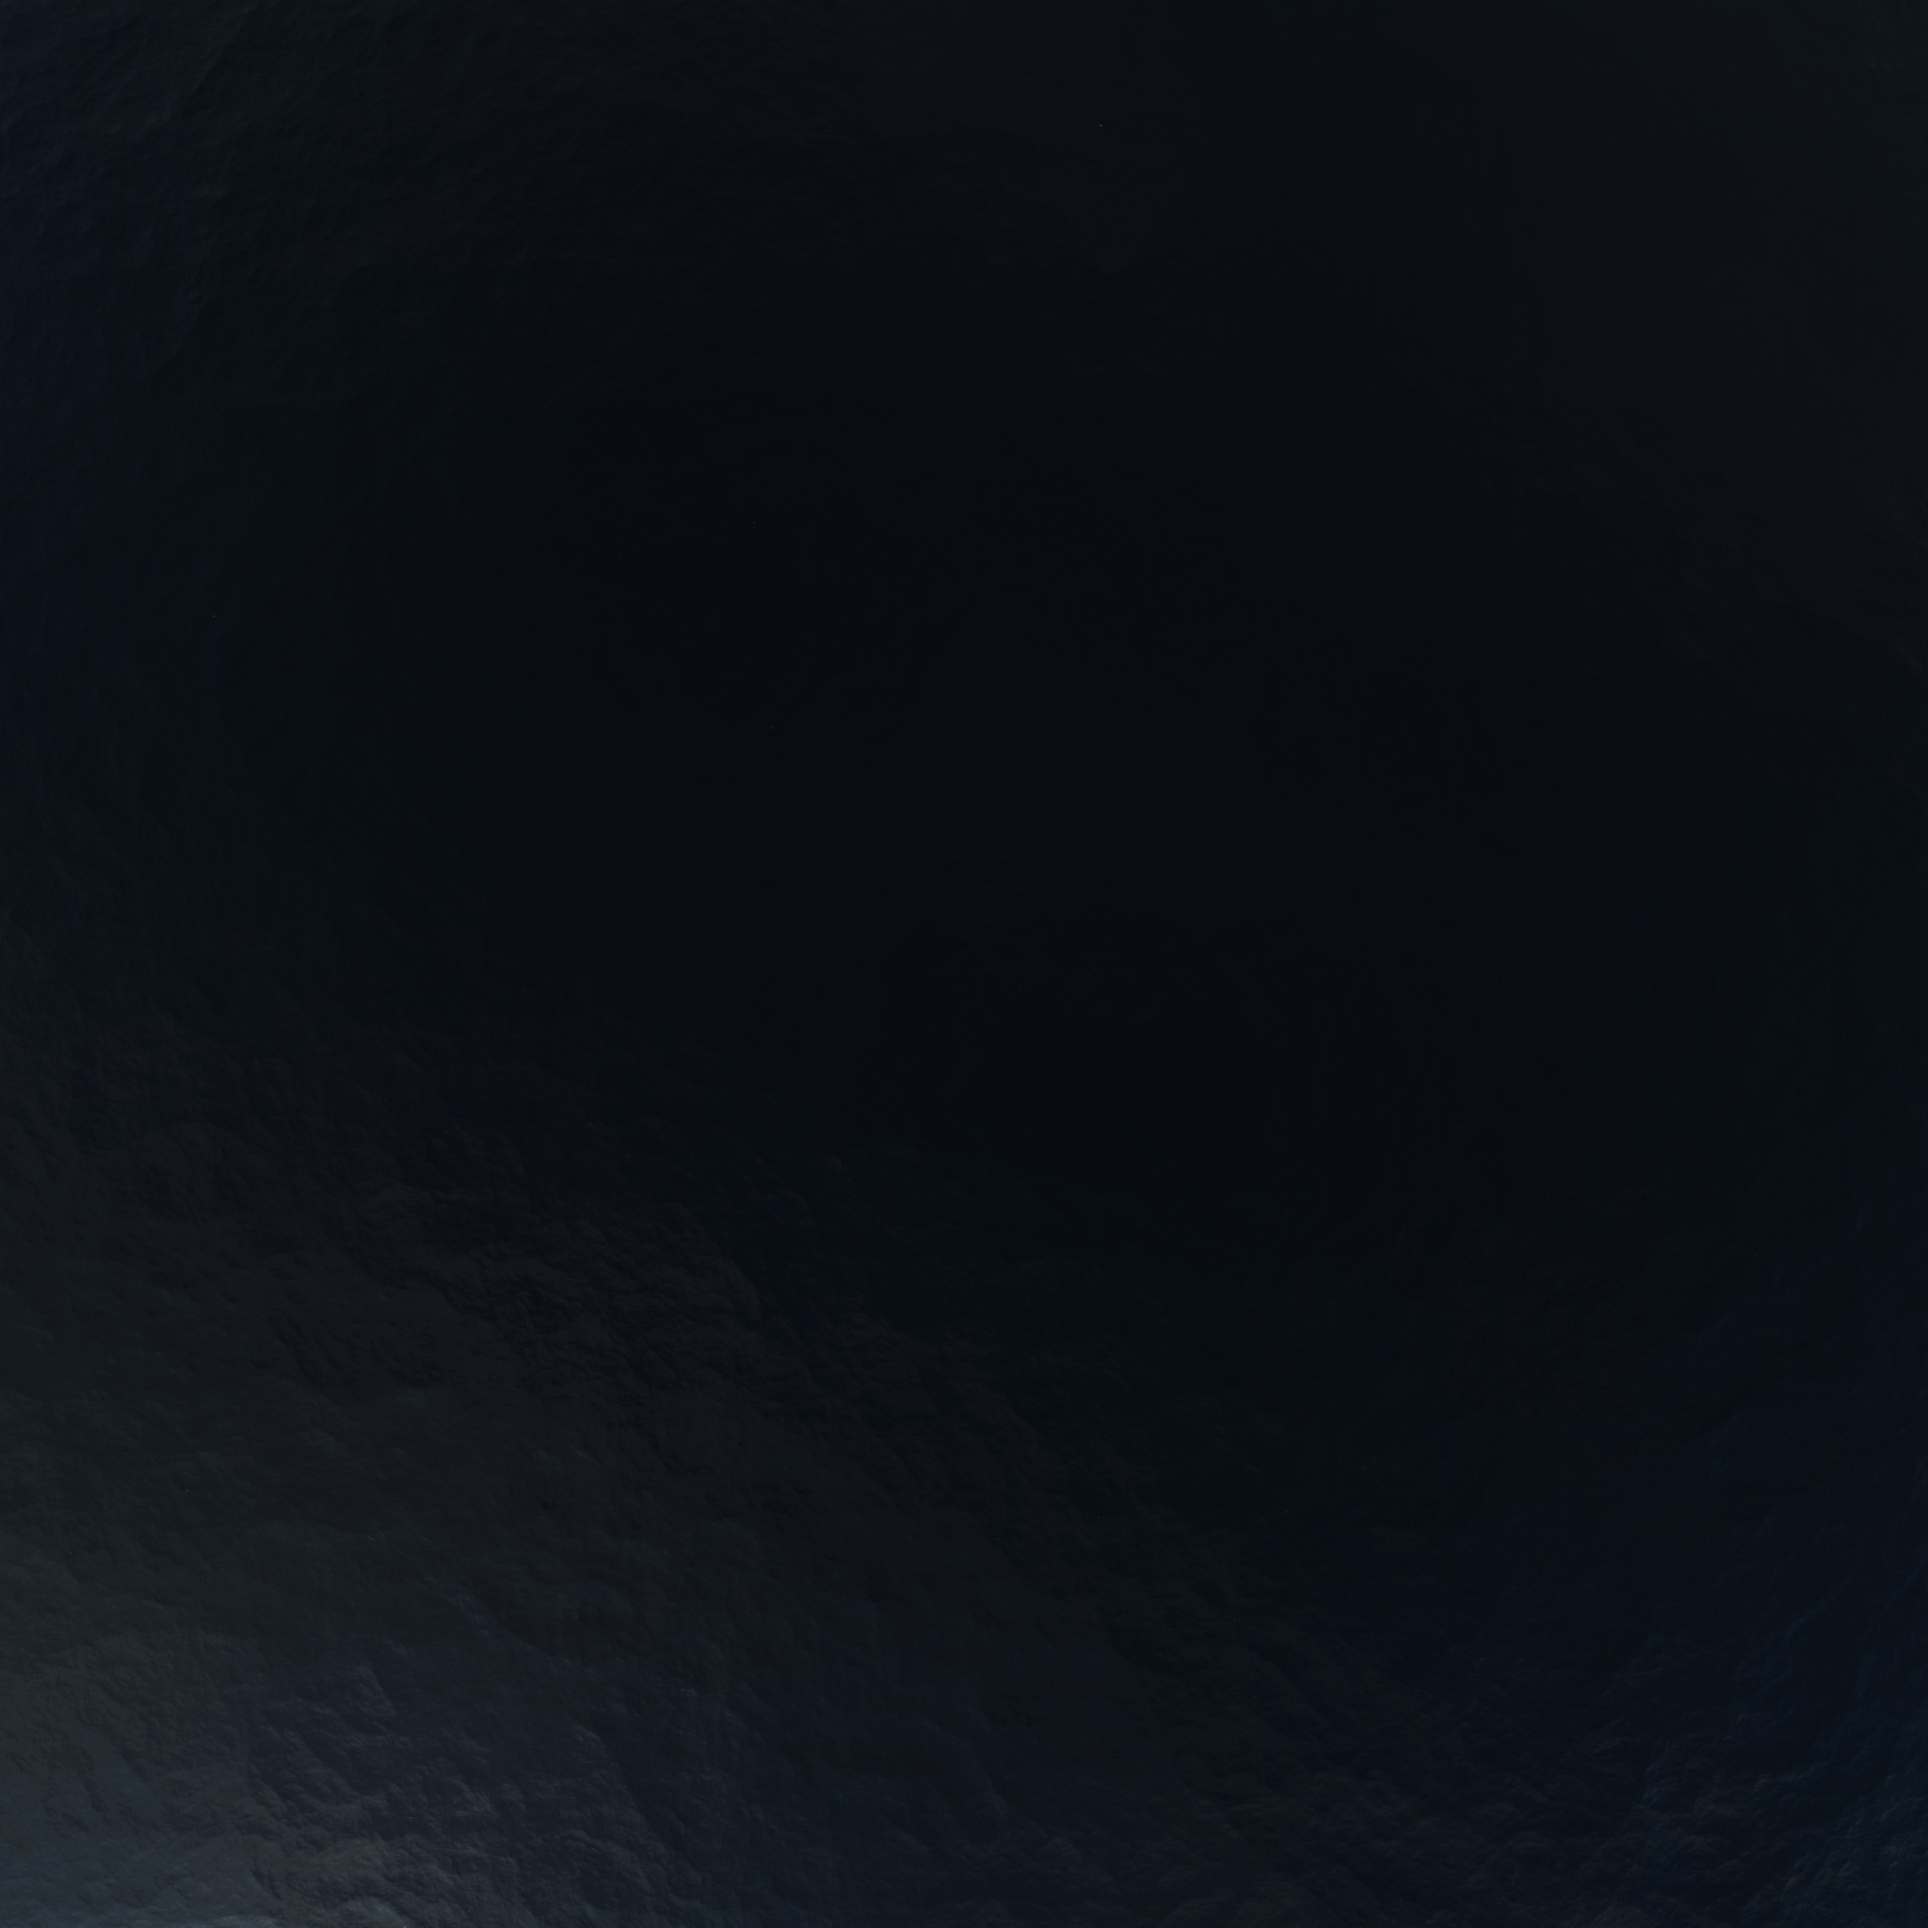
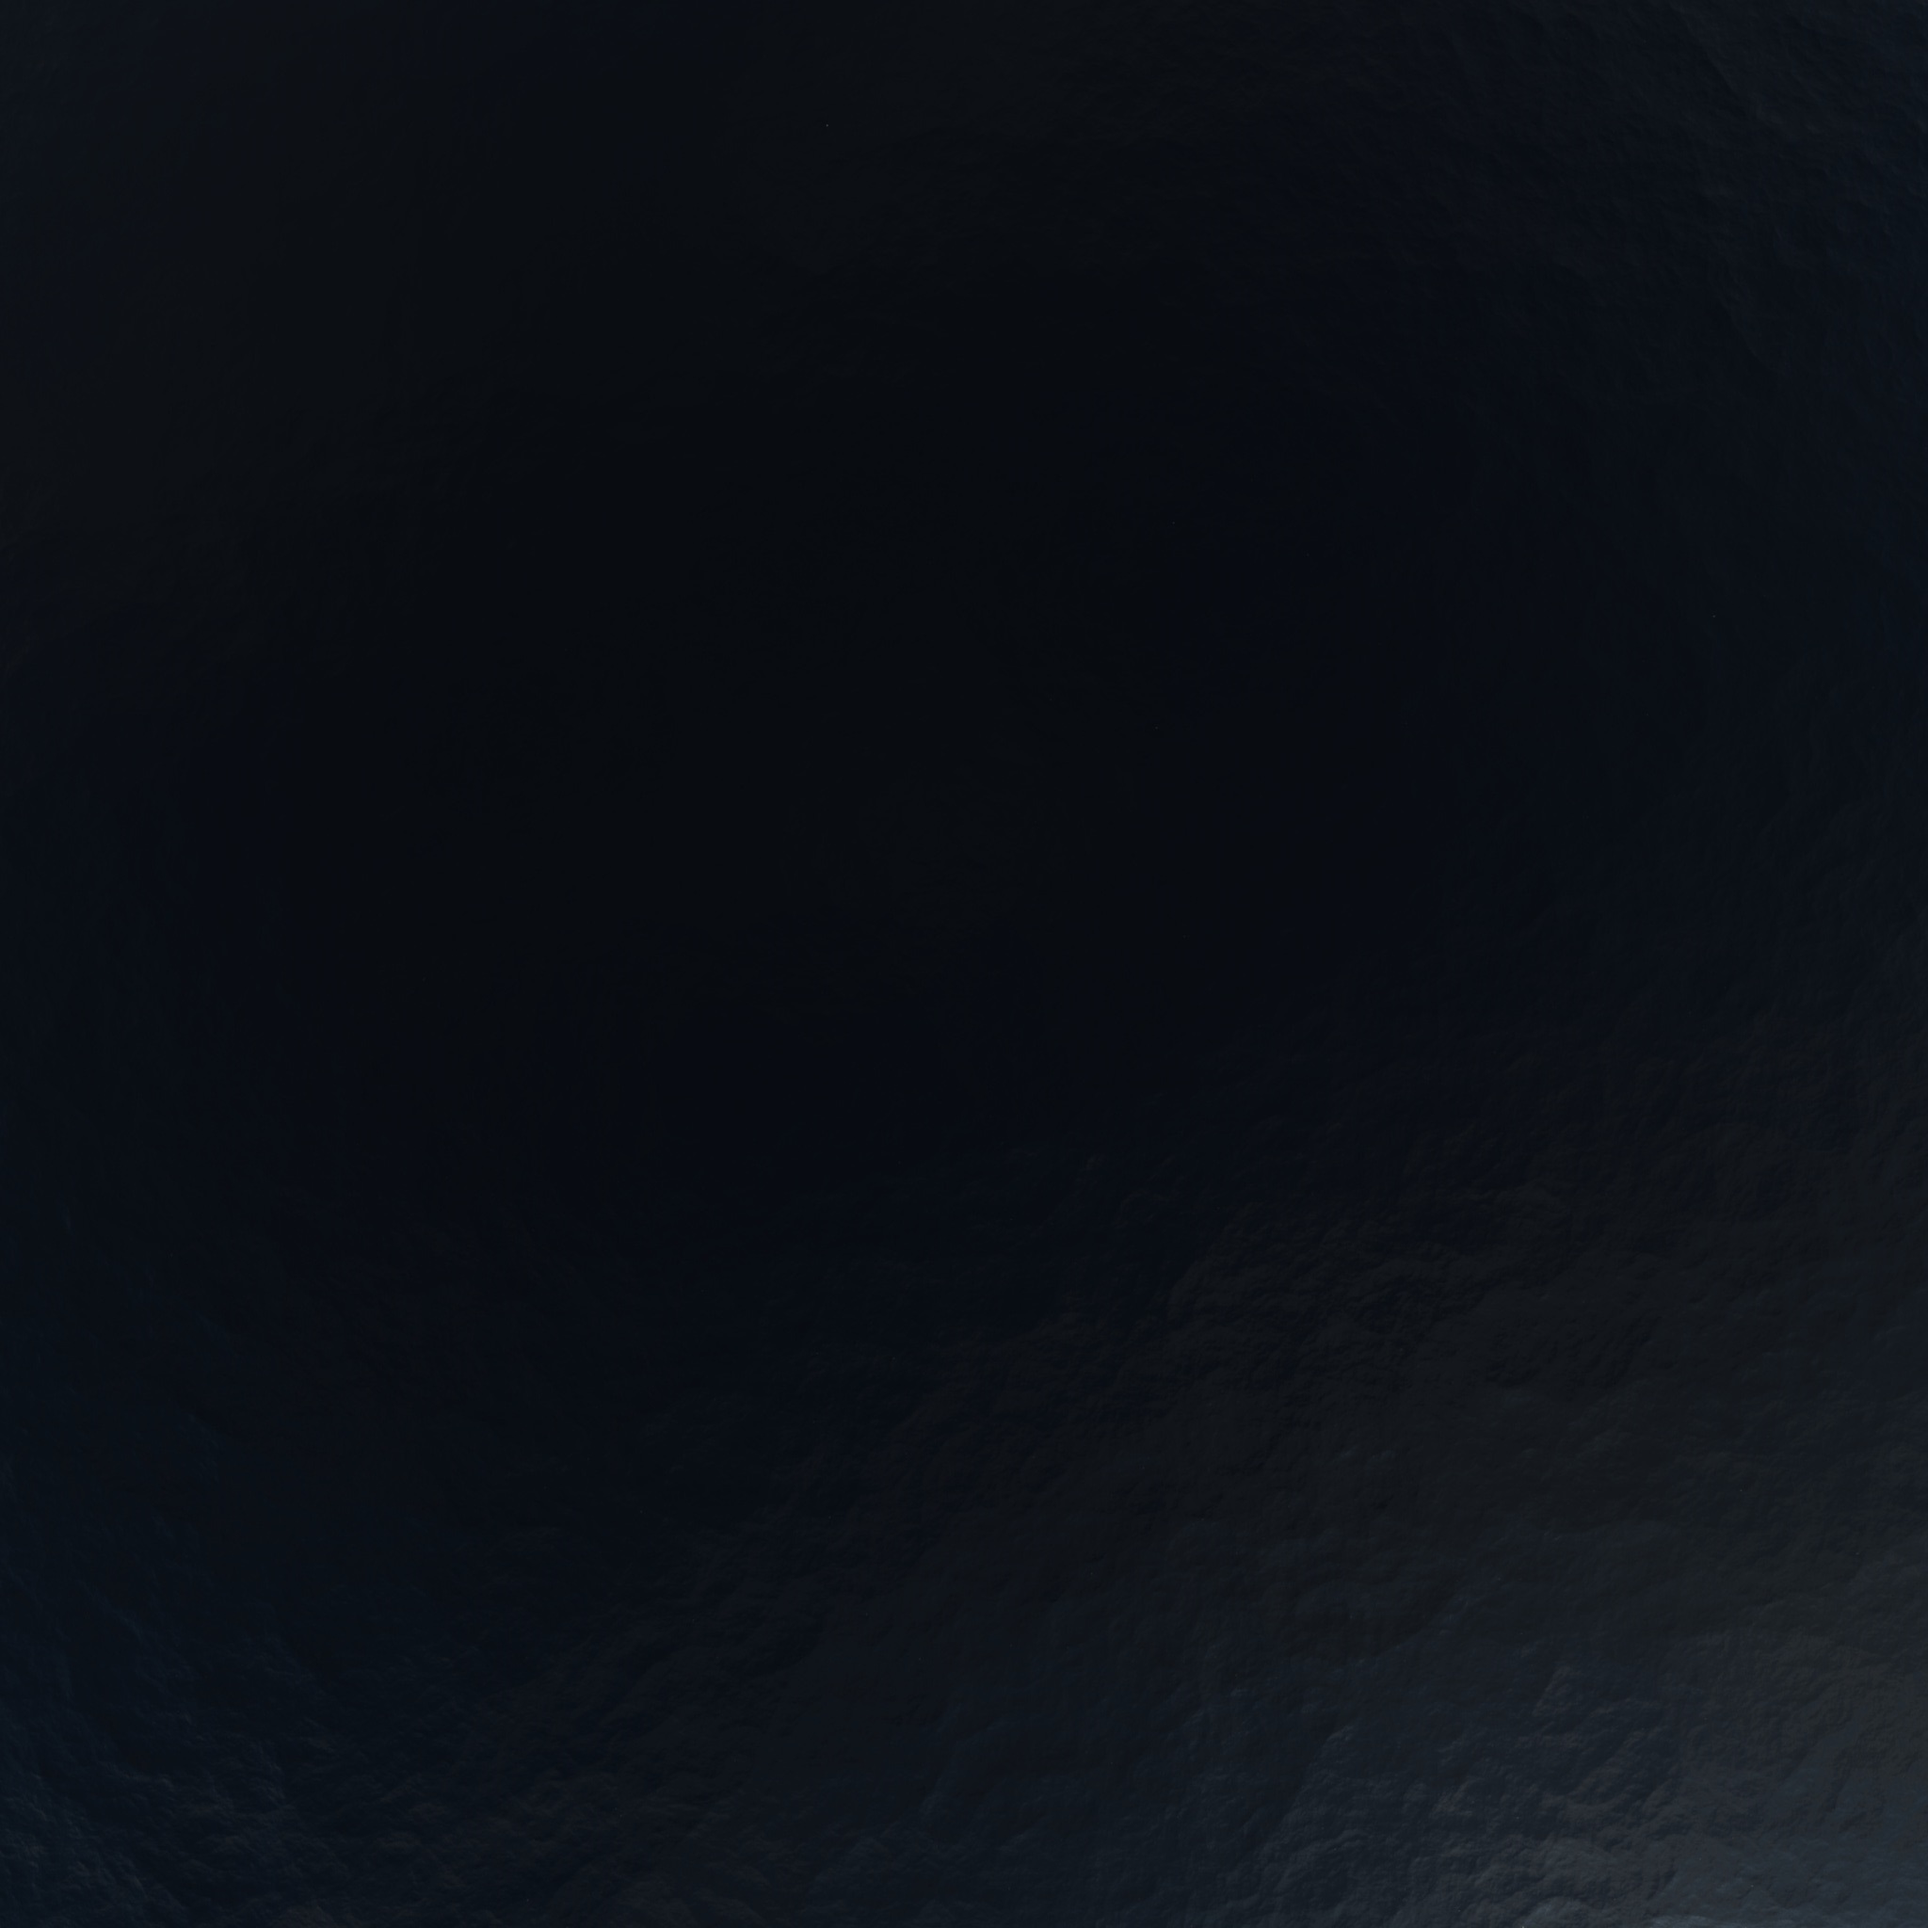
Enviornment Mapping works well!

Changed region(s): [[0.7188, 0.8438, 1.0, 1.0], [0.0, 0.8438, 0.2812, 1.0]]

diff --git a/HW3/CG_skel_w_MFC/Scene.cpp b/HW3/CG_skel_w_MFC/Scene.cpp
@@ -184,12 +184,25 @@ void Camera::setOrtho()
 							0, 0    , 0      , 1);
 }
 
-mat4 Camera::GetOrthoMatrix()
+mat4 Camera::GetPerspectiveoMatrix()
 {
-	return mat4(1, 0    , 0,      0,
-				0    , 1, 0,      0,
-				0    , 0    , -1, -(c_zFar + c_zNear) / 2,
-				0    , 0    , 0     , 1);
+	float c_fovy_local = 30;
+	float c_zNear_local = 1;
+	float c_zFar_local = 100;
+
+	float c_top_local = c_zNear_local * tan((M_PI / 180) * c_fovy_local);
+	float c_right_local = c_top_local;
+	float c_bottom_local = -c_top_local;
+	float c_left_local   = -c_right_local;
+
+	GLfloat x = c_right_local - c_left_local;
+	GLfloat y = c_top_local - c_bottom_local;
+	GLfloat z = c_zFar_local - c_zNear_local;
+
+	return mat4(2 * c_zNear_local / x, 0, (c_right_local + c_left_local) / x, 0,
+				0, 2 * c_zNear_local / y, (c_top_local + c_bottom_local) / y, 0,
+				0, 0, -(c_zFar_local + c_zNear_local) / z, -(2 * c_zNear_local * c_zFar_local) / z,
+				0, 0, -1, 0);
 }
 
 void Camera::setPerspective()
@@ -431,15 +444,17 @@ void Scene::draw()
 	{
 		
 		//mat4 model_view_mat = GetActiveCamera()->rotation_mat;
-		mat4 model_view_mat = GetActiveCamera()->cTransform;
-		mat4 clean_model_view_mat = mat4(TopLeft3(model_view_mat), vec3(0, 0, 0), 1);
-		mat4 temp_clean_projection = GetActiveCamera()->GetOrthoMatrix();
+		mat4 modelEmptyMat = mat4(1);
+		mat4 view_mat = GetActiveCamera()->cTransform;
+		mat4 clean_view_mat = mat4(TopLeft3(view_mat), vec3(0, 0, 0), 1);
+		mat4 temp_clean_projection = GetActiveCamera()->GetPerspectiveoMatrix();
 
-		cout << "camera cTransform: " << model_view_mat << endl;
-		cout << "camera clean cTransform: " << clean_model_view_mat << endl;
 
-		/* Bind the model-view matrix*/
-		glUniformMatrix4fv(glGetUniformLocation(renderer->program, "modelview"), 1, GL_TRUE , &(clean_model_view_mat[0][0]));
+		/* Bind the model matrix*/
+		glUniformMatrix4fv(glGetUniformLocation(renderer->program, "model"), 1, GL_TRUE, &(modelEmptyMat[0][0]));
+
+		/* Bind the view matrix*/
+		glUniformMatrix4fv(glGetUniformLocation(renderer->program, "view"), 1, GL_TRUE, &(clean_view_mat[0][0]));
 
 		/* Bind the projection matrix*/
 		glUniformMatrix4fv(glGetUniformLocation(renderer->program, "projection"), 1, GL_TRUE, &(temp_clean_projection[0][0]));
@@ -451,13 +466,14 @@ void Scene::draw()
 
 		glDepthFunc(GL_LEQUAL);
 		glBindVertexArray(skyboxVAO);
-		glActiveTexture(GL_TEXTURE0);
+		glActiveTexture(GL_TEXTURE5);
 		glBindTexture(GL_TEXTURE_CUBE_MAP, cubeMapId);
 		glUniform1i(glGetUniformLocation(m_renderer->program, "displaySkyBox"), 1);
 		glDrawArrays(GL_TRIANGLES, 0, 36); //36 vertices for a 3d box;
 		glUniform1i(glGetUniformLocation(m_renderer->program, "displaySkyBox"), 0);
 		glBindVertexArray(0);
 		glDepthFunc(GL_LESS);
+		glActiveTexture(GL_TEXTURE0);
 
 
 		UpdateGeneralUniformInGPU(); //Reset the GPU data (projection matrix updated)
@@ -1382,6 +1398,7 @@ void Scene::drawGUI()
 				if (cubeMapId == 0)
 				{
 					glUseProgram(renderer->program);
+					//glActiveTexture(GL_TEXTURE0);
 					glGenTextures(1, &cubeMapId);
 					glBindTexture(GL_TEXTURE_CUBE_MAP, cubeMapId);
 
@@ -1403,7 +1420,11 @@ void Scene::drawGUI()
 
 						for (UINT i = 0; i < skyBoxImages.size(); i++)
 						{
-							stbi_set_flip_vertically_on_load(false);
+							if(i == 2 || i == 3) //Flip just for up and down
+								stbi_set_flip_vertically_on_load(true);
+							else
+								stbi_set_flip_vertically_on_load(false);
+
 							skyBoxImages[i].image_data = stbi_load(imagesNames[i].c_str(), &skyBoxImages[i].width, &skyBoxImages[i].height, &skyBoxImages[i].channels, 0);
 
 							glTexImage2D(GL_TEXTURE_CUBE_MAP_POSITIVE_X + i, 0, GL_RGBA, skyBoxImages[i].width, skyBoxImages[i].height, 0, GL_RGBA, GL_UNSIGNED_BYTE, skyBoxImages[i].image_data);

diff --git a/HW3/CG_skel_w_MFC/MeshModel.cpp b/HW3/CG_skel_w_MFC/MeshModel.cpp
@@ -965,19 +965,30 @@ void MeshModel::GenerateMaterials()
 
 void MeshModel::UpdateModelViewInGPU(mat4& Tc, mat4& Tc_for_normals)
 {
-	// Calculate model-view matrix:
-	model_view_mat = Tc * _world_transform * _model_transform;
+	// Calculate model view matrix:
+	mat4 model = _world_transform * _model_transform;
+	mat4 view = Tc;
+	//model_view_mat = view * model; //computed in GPU
 
-	// Calculate model-view-normals matrix:
-	model_view_mat_for_normals = Tc_for_normals * _world_transform_for_normals * _model_transform_for_normals;
+	// Calculate model view matrix:
+	mat4 model_normals = _world_transform_for_normals * _model_transform_for_normals;
+	mat4 view_normals = Tc_for_normals;
+	//model_view_mat_for_normals = view_normals * model_normals; //computed in GPU
 
-	/* Bind the model-view matrix*/
-	GLint matrixLocation = glGetUniformLocation(renderer->program, "modelview");
-	glUniformMatrix4fv(matrixLocation, 1, GL_TRUE, &(model_view_mat[0][0]));
 
-	/* Bind the model-view-normals matrix*/
-	matrixLocation = glGetUniformLocation(renderer->program, "modelview_normals");
-	glUniformMatrix4fv(matrixLocation, 1, GL_TRUE, &(model_view_mat_for_normals[0][0]));
+	/* Bind the model matrix*/
+	glUniformMatrix4fv(glGetUniformLocation(renderer->program, "model"), 1, GL_TRUE, &(model[0][0]));
+
+	/* Bind the view matrix*/
+	glUniformMatrix4fv(glGetUniformLocation(renderer->program, "view"), 1, GL_TRUE, &(view[0][0]));
+	
+	/* Bind the model_normals matrix*/
+	glUniformMatrix4fv(glGetUniformLocation(renderer->program, "model_normals"), 1, GL_TRUE, &(model_normals[0][0]));
+
+	/* Bind the view_normals matrix*/
+	glUniformMatrix4fv(glGetUniformLocation(renderer->program, "view_normals"), 1, GL_TRUE, &(view_normals[0][0]));
+
+
 }
 
 void MeshModel::UpdateMaterialinGPU()
@@ -1034,7 +1045,6 @@ void MeshModel::UpdateMaterialinGPU()
 void MeshModel::UpdateTextureInGPU()
 {
 	/* Bind the TextureMap enable / disable */
-	//int usingTexture = (verticesTextures_gpu.size() > 0);
 	glUniform1i(glGetUniformLocation(renderer->program, "usingTexture"), (int)useTexture);
 	glUniform1i(glGetUniformLocation(renderer->program, "usingNormalMap"), (int)useNormalMap);
 

diff --git a/HW3/CG_skel_w_MFC/Renderer.cpp b/HW3/CG_skel_w_MFC/Renderer.cpp
@@ -107,6 +107,7 @@ void Renderer::drawModel(DrawAlgo draw_algo, Model* model, mat4& cTransform)
 	pModel->UpdateTextureInGPU();
 	pModel->UpdateAnimationInGPU();
 
+	glActiveTexture(GL_TEXTURE0);
 	if (draw_algo == WIRE_FRAME) {
 		glBindVertexArray(pModel->VAOs[VAO_VERTEX_WIREFRAME]);
 		glDrawArrays(GL_LINES, 0, pModel->GetBuffer_len(MODEL_WIREFRAME));

diff --git a/HW3/CG_skel_w_MFC/Scene.h b/HW3/CG_skel_w_MFC/Scene.h
@@ -66,7 +66,7 @@ public:
 	
 	mat4 LookAt(const vec4& eye, const vec4& at, const vec4& up);
 	void Camera::LookAt(const Model* target = nullptr);
-	mat4 GetOrthoMatrix();
+	mat4 GetPerspectiveoMatrix();
 
 	void setOrtho();
 	void setPerspective();

diff --git a/HW3/CG_skel_w_MFC/CG_skel_w_glfw.cpp b/HW3/CG_skel_w_MFC/CG_skel_w_glfw.cpp
@@ -180,6 +180,8 @@ int my_main(int argc, char** argv)
 	renderer = new Renderer(START_WIDTH, START_HEIGHT, window);
 	scene = new Scene(renderer);
 	renderer->UpdateLightsUBO(true);
+	glEnable(GL_TEXTURE_CUBE_MAP_SEAMLESS);
+
 
 
 
